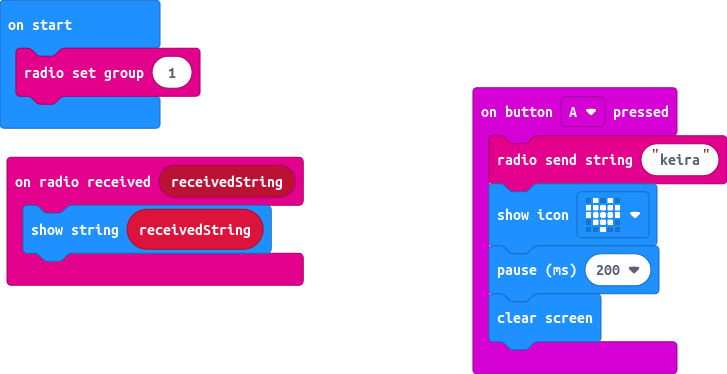
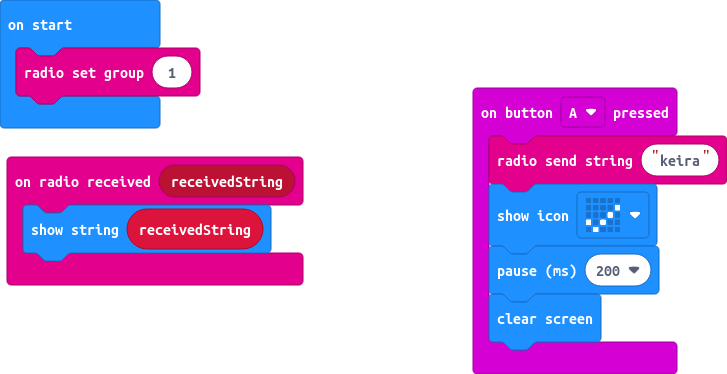
Update main.blocks, main.ts

diff --git a/main.ts b/main.ts
@@ -1,6 +1,6 @@
 input.onButtonPressed(Button.A, function () {
     radio.sendString("keira")
-    basic.showIcon(IconNames.Heart)
+    basic.showIcon(IconNames.Yes)
     basic.pause(200)
     basic.clearScreen()
 })
